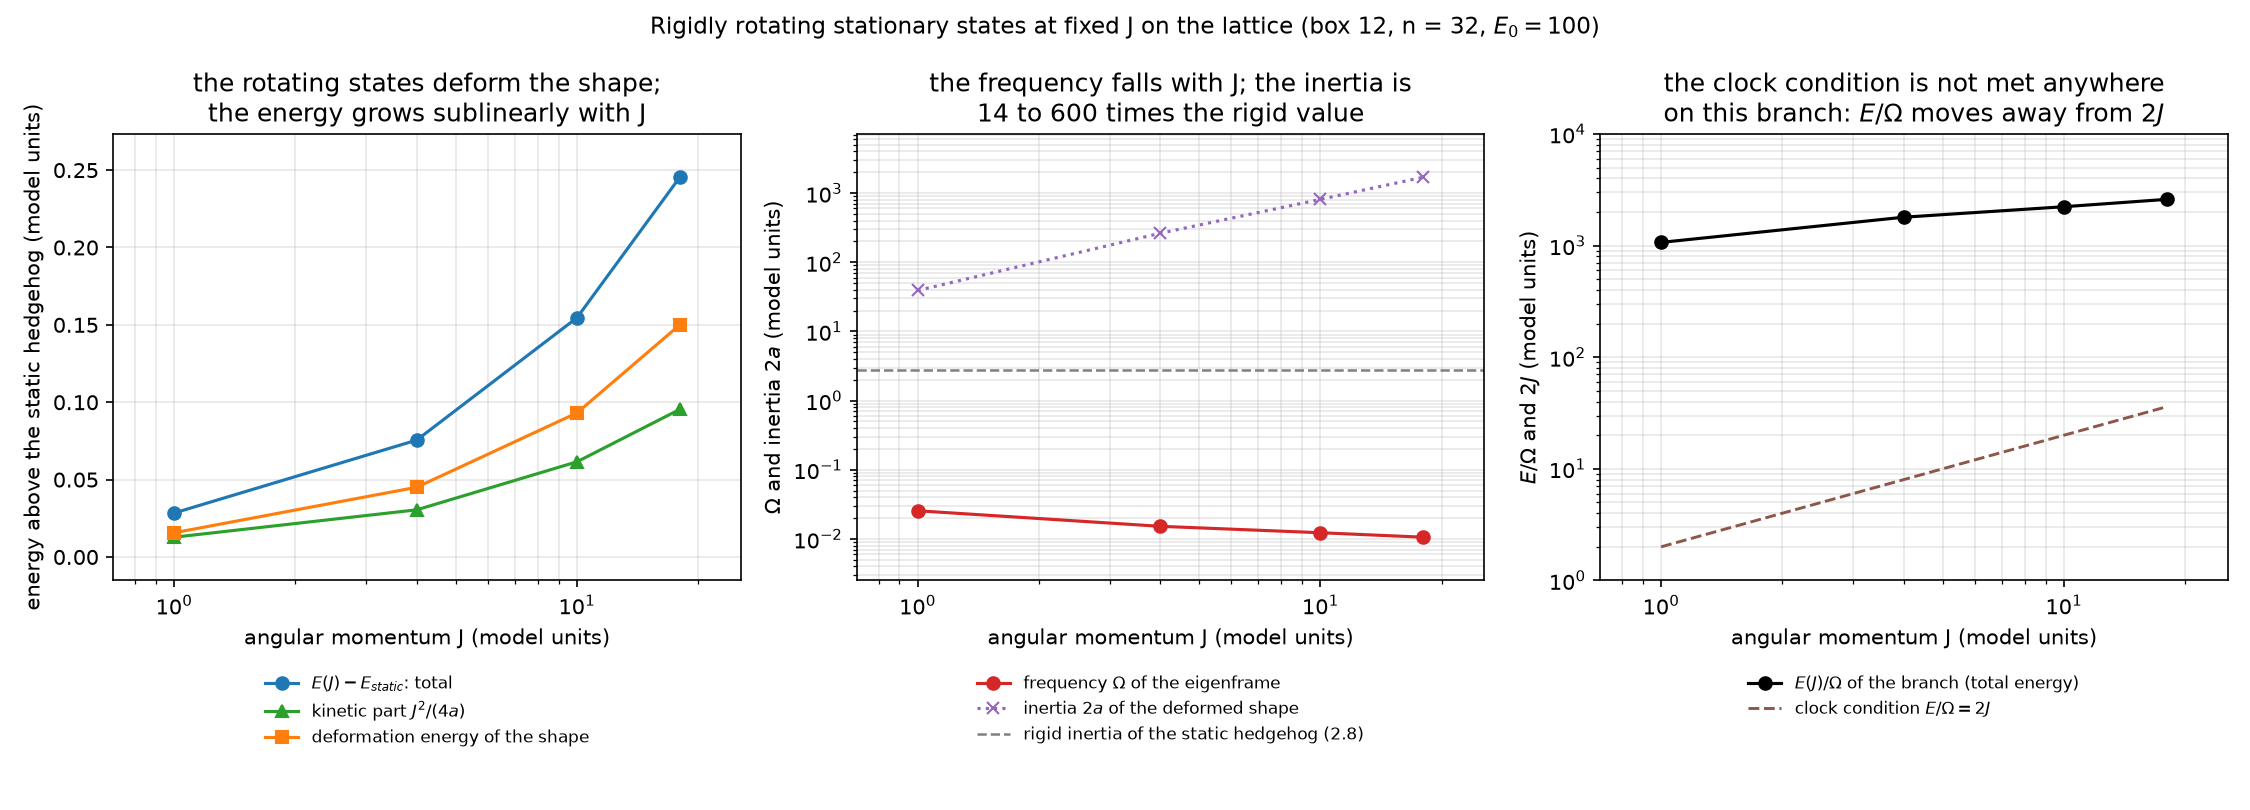
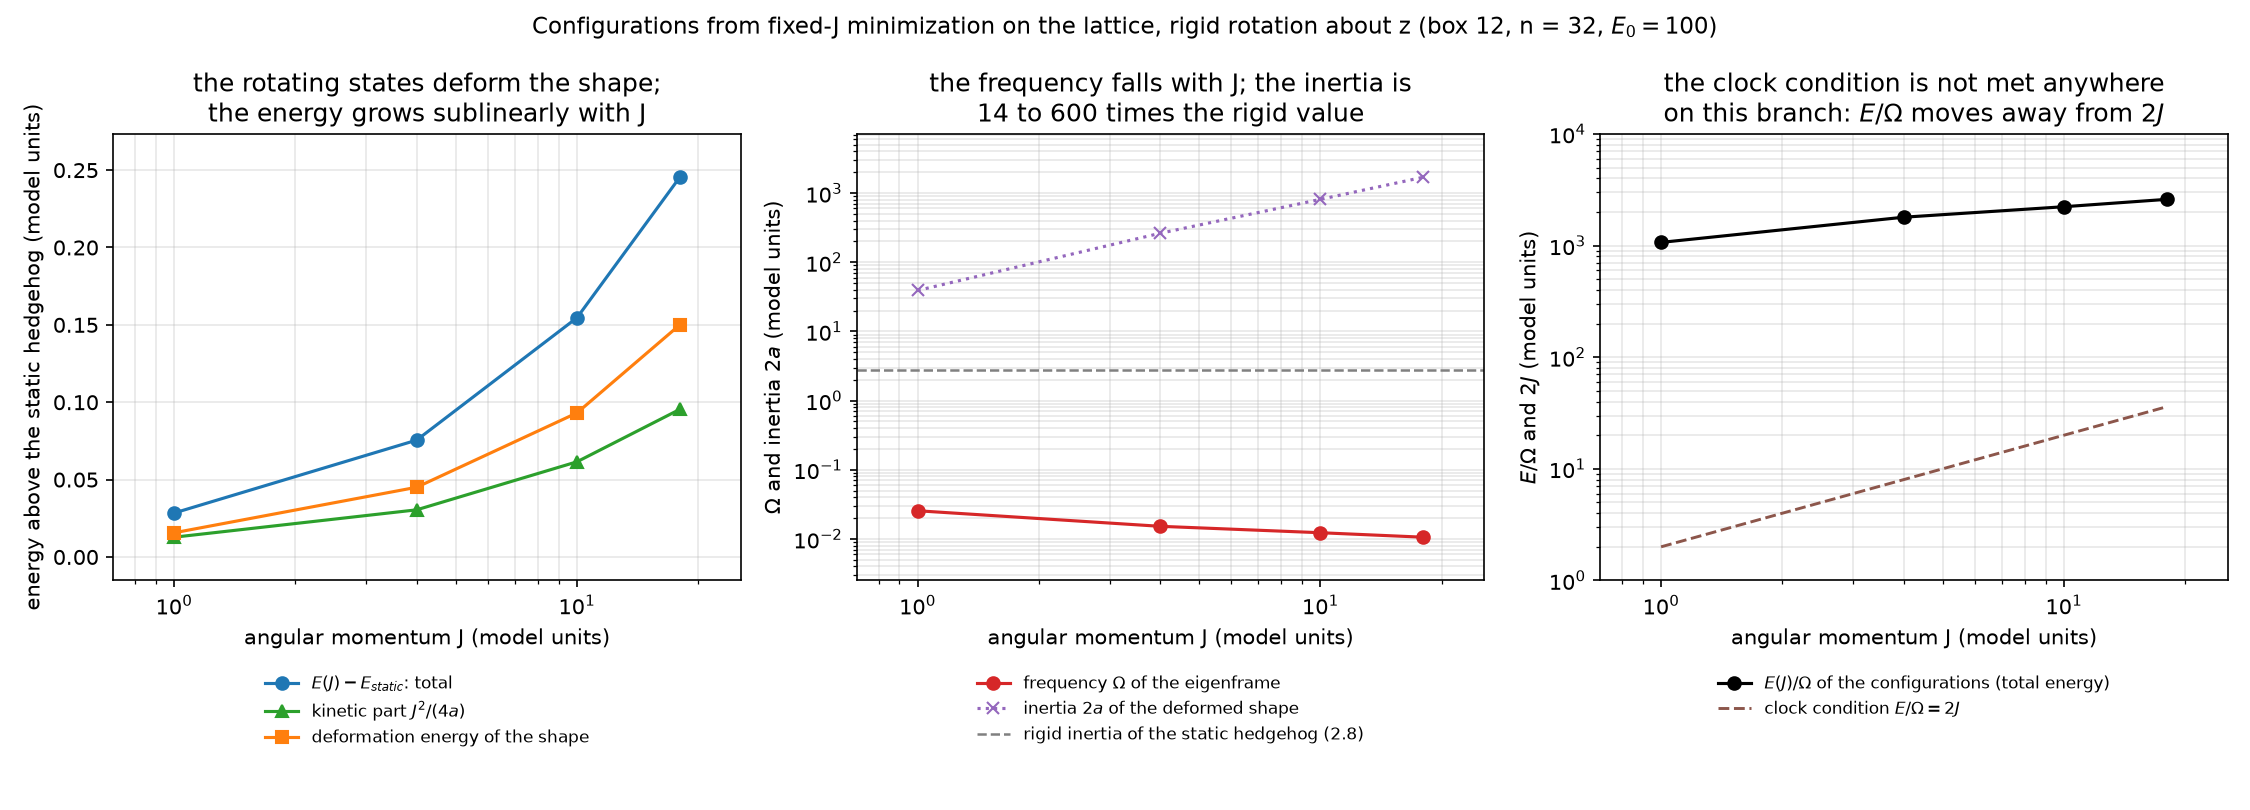
015 review round 2: consistent status of the box configurations (approximate, from fixed-J minimization), clock mismatch stated as E/(2J Omega) = 70-500, inertia agreement quoted as a fit result, crossover radius against the total excess (35-75, order of magnitude), figure labels
Claude-Session: https://claude.ai/code/session_01QP2nAtvThEMWhiKzux6iWF

Changed region(s): [[0.2489, 0.0, 0.7467, 0.0617], [0.7467, 0.8333, 0.9333, 0.8951]]

diff --git a/reports/015-halo-inertia/rotor_branch.py b/reports/015-halo-inertia/rotor_branch.py
@@ -43,13 +43,15 @@ for pt in br:
           f"inertia 2a = {2 * a:.1f} ({2 * a / (2 * a0):.0f} x rigid), E/Omega = {row['E_over_Omega']:.0f} (2J = {2 * J}), |grad| {pt['grad']:.1e}", flush=True)
 # the halo-tilt alternative in the same box: a tilt that spans the box radius R costs c_E delta^2 / R and carries the
 # inertia c_I delta^2 R (halo_check.py); at fixed J the optimal angle gives E_tilt = J sqrt(2 c_E / c_I) / R = J / R.
-# The box branch beats it unless R > J / E_kin, which is the crossover radius quoted in the report.
+# Equating it with the total excess E - E_static of the box configuration gives an order-of-magnitude crossover radius.
 import math
 Delta = base['E'][1] - base['E'][2]
 cE, cI = 32 * math.pi / 3 * Delta ** 4, 64 * math.pi / 3 * Delta ** 4
 Rbox = base['box'] / 2
 for row in rows:
     row['tilt_estimate_in_box'] = row['J'] * math.sqrt(2 * cE / cI) / Rbox
-    row['crossover_radius'] = row['J'] * math.sqrt(2 * cE / cI) / row['E_kin']
-    print(f"J = {row['J']:5.1f}: halo-tilt estimate in this box {row['tilt_estimate_in_box']:.2f} vs branch kinetic {row['E_kin']:.4f}; tilt wins beyond R = {row['crossover_radius']:.0f}")
+    row['crossover_radius'] = row['J'] * math.sqrt(2 * cE / cI) / row['E_above_static']
+    row['E_over_2JOmega'] = row['E_over_Omega'] / (2 * row['J'])
+    print(f"J = {row['J']:5.1f}: halo-tilt estimate in this box {row['tilt_estimate_in_box']:.2f} vs total excess of the configuration {row['E_above_static']:.4f}; "
+          f"order-of-magnitude crossover R = {row['crossover_radius']:.0f}; E/(2 J Omega) = {row['E_over_2JOmega']:.0f}")
 json.dump(dict(E_static=E0, rigid_inertia=2 * a0, box=base['box'], n=base['n'], rows=rows), open('results/rotor_branch.json', 'w'), indent=1)

diff --git a/reports/015-halo-inertia/make_figures.py b/reports/015-halo-inertia/make_figures.py
@@ -70,14 +70,14 @@ def fig_rotor():
     ax[1].axhline(d['rigid_inertia'], color='0.5', ls='--', lw=1.2, label=f'rigid inertia of the static hedgehog ({d["rigid_inertia"]:.1f})')
     ax[1].set(xlabel='angular momentum J (model units)', ylabel='$\\Omega$ and inertia $2a$ (model units)',
               title=f'the frequency falls with J; the inertia is\n{I2a.min() / d["rigid_inertia"]:.0f} to {round(I2a.max() / d["rigid_inertia"], -2):.0f} times the rigid value')
-    ax[2].loglog(J, EO, 'o-', color='k', label='$E(J)/\\Omega$ of the branch (total energy)')
+    ax[2].loglog(J, EO, 'o-', color='k', label='$E(J)/\\Omega$ of the configurations (total energy)')
     ax[2].loglog(J, 2 * J, '--', color='C5', lw=1.4, label='clock condition $E/\\Omega = 2J$')
     ax[2].set(xlabel='angular momentum J (model units)', ylabel='$E/\\Omega$ and $2J$ (model units)', ylim=(1, 1e4),
               title='the clock condition is not met anywhere\non this branch: $E/\\Omega$ moves away from $2J$')
     for a in ax:
         a.grid(alpha=0.3, which='both'); a.margins(x=0.12, y=0.12)
         a.legend(fontsize=8, loc='upper center', bbox_to_anchor=(0.5, -0.18), ncol=1, frameon=False)
-    fig.suptitle('Rigidly rotating stationary states at fixed J on the lattice (box 12, n = 32, $E_0 = 100$)', fontsize=11)
+    fig.suptitle('Configurations from fixed-J minimization on the lattice, rigid rotation about z (box 12, n = 32, $E_0 = 100$)', fontsize=11)
     fig.tight_layout()
     fig.savefig(os.path.join(R, 'fig_rotor.png'), dpi=150)
 

diff --git a/reports/015-halo-inertia/README.md b/reports/015-halo-inertia/README.md
@@ -33,7 +33,7 @@ is E/Ω = 2J: the diagnostic stipulated in the development
 repository's test suite (ħ := 2J, so that the electron would carry
 J = ħ/2). It is a convention, not a symmetry statement — a tilted
 configuration has no half-turn symmetry and no implied frequency 2Ω
-(review round 1) — and since the branch below misses it by three
+(review round 1) — and since the configurations below miss it by two to three
 orders of magnitude, no O(1) choice of the convention matters. The
 tilt amplitude below is called α (`delta` in the scripts); the
 parameters (g, δ) = (8, 0.3) of reports 004–013 are not used here.
@@ -65,7 +65,7 @@ parameters (g, δ) = (8, 0.3) of reports 004–013 are not used here.
    the same cost. Second route: the model's own kinetic density on the
    analytic tilted exterior, averaged over spheres by quadrature,
    matches the closed form to 10⁻¹¹ (`halo_inertia_check.py`).
-3. **The lattice agrees: inertia to 2%, cost to 10–30%.** On the
+3. **The lattice agrees: fitted inertia prefactors within 2%, cost 10–30% low.** On the
    relaxed hedgehog tilted by α s(r), s a smoothstep rising over a
    zone of thickness L = 1, 2, 3 and falling back before the boundary,
    α = 0.05–0.2, cost and inertia gain are quadratic in α (exponents
@@ -76,9 +76,9 @@ parameters (g, δ) = (8, 0.3) of reports 004–013 are not used here.
    | | box 12, n = 32 | box 18, n = 48 | exterior formula |
    |---|---|---|---|
    | cost | 22–23 | 23–29 | 32 |
-   | inertia | 65–66 | 63–67 | 64 |
+   | inertia | 64–66 | 63–67 | 64 |
 
-   (`halo_scaling.py`, figure below). The cost deficit is largest
+   (ranges over the three zone thicknesses; the fitted prefactors are 65.5 and 65.4 against 64.4; `halo_scaling.py`, figure below). The cost deficit is largest
    where the tilt zone sits in the region where e₁ is still
    recovering (box 12: e₁ = 0.92–0.98 at r = 3–6, and Δ⁴ is
    correspondingly smaller) and shrinks as the zone moves outward in
@@ -95,27 +95,31 @@ parameters (g, δ) = (8, 0.3) of reports 004–013 are not used here.
    clock condition E/Ω = 2J cannot be met by one. This is a
    variational statement about the infimum and the configurations
    tested, not a classification of stationary points: rotor branches
-   that are stationary but not minima (the finite-box branch of
-   result 5 is of that kind) are not excluded by it, and nothing
+   that are stationary but not minima are not excluded by it, and nothing
    follows about quantization or a spin quantum. The argument uses
    only the quartic gradient energy and the internal symmetry of the
    far field, so it should carry over to Faber's model of topological
    fermions, whose gradient energy is the same curvature-squared term
    (hep-th/9910221); that is not checked here.
-5. **What the lattice finds is a localized deformation.** Minimizing
-   H_J in box 12 from a symmetry-broken seed at J = 1, 4, 10, 18 gives
-   states whose energy above E_static = 27.29 is 0.03 at J = 1 and
-   0.25 at J = 18, growing sublinearly and split about 40/60 between
+5. **What fixed-J minimization in a box finds is a localized
+   deformation.** Minimizing H_J in box 12 from a symmetry-broken seed
+   at J = 1, 4, 10, 18 gives approximate configurations (residual
+   gradients 3·10⁻³–3.5·10⁻², see the limitations) whose energy above
+   E_static = 27.29 is 0.03 at J = 1 and 0.25 at J = 18, growing sublinearly and split about 40/60 between
    the kinetic part J²/(4a) and the deformation of the shape. Between
    J = 1 and 18 the frequency Ω falls from 0.026 to 0.011 and the
    inertia 2a grows from 39 to 1700, against the rigid inertia 2.8 of
-   the static lattice hedgehog (`rotor_branch.py`, figure below). At
-   J = 4 the branch gives E/Ω ≈ 1800 against 2J = 8, and the ratio
-   grows with J. The halo tilt of result 4 would cost J/R ≈ 0.2–3 in
-   this box, far above the branch, and undercuts it only for box radii
-   beyond about 80–190: the infinite-volume infimum is out of the
-   lattice's reach, and the box branch is the minimiser found from
-   this seed in this box, not a measurement of it.
+   the static lattice hedgehog (`rotor_branch.py`, figure below).
+   E/(2JΩ) lies between about 500 (J = 1) and 70 (J = 18): the clock
+   diagnostic stays two to three orders of magnitude from equality at
+   all four sampled points. The halo tilt of result 4 would cost
+   J/R ≈ 0.2–3 in this box, far above the total excess of these
+   configurations; equating J/R with that excess gives R ≈ 35–75, an
+   order-of-magnitude estimate of the box size beyond which the
+   extended tilt is the cheaper way to carry J. The infinite-volume
+   infimum is out of this lattice's reach, and the box configurations
+   are what fixed-J minimization finds from this seed in this box, not
+   a measurement of it.
 
 ![halo](results/fig_halo.png)
 
@@ -140,10 +144,13 @@ is proposed, not measured: no run at (g, δ) = (8, 0.3) is made here.
   not separated (gap deficit in the tilt zone vs discretization of
   θ′). One tilt axis and one rotation axis (perpendicular) are
   measured; angles α ≤ 0.2 and thicknesses L ≤ 3.
-- The finite-box branch is not converged along the soft box-adapted
-  translation mode (final gradient norms 3·10⁻³–3.5·10⁻²), so its
-  energies are upper bounds; it is a single box (12) and a single
-  seed. A box-18 continuation exists in the development repository
+- The finite-box configurations are not converged along the soft
+  box-adapted translation mode (final gradient norms 3·10⁻³–3.5·10⁻²),
+  so they are neither certified stationary points nor certified
+  minima and their energies are upper bounds; a single box (12) and a
+  single seed. The crossover radius of result 5 is a heuristic
+  comparison of two energy estimates, not an established crossover of
+  branches with box size. A box-18 continuation exists in the development repository
   (kinetic part 0.038 at J = 4, against 0.030 here) and is not
   regenerated by this report.
 - The clock condition E/Ω = 2J is a stipulated diagnostic; no

diff --git a/README.md b/README.md
@@ -23,7 +23,7 @@ behind every number, and a reproduction script.
 | 011 | [The equivariant hedgehog and the rotational sector](reports/011-third-class-rotor/) | The spherical-frame (axially equivariant) hedgehog relaxes stably with a constant axial line tension ≈ 8·10⁻⁴ for L ≥ 36 (observable-level plateau; the cost falls with δ and is negative at δ = 1/8); neither a spectral nor a frame-twist core deformation survives statics; prescribed-J minimization grows large inertia spontaneously from the equivariant seed but the excess is peripheral (orbital lever, centroid r ≈ 15) — no core-localized spin mode is stabilized by anything tried |
 | 012 | [Scaling toward the proposed vacuum hierarchy](reports/012-delta-g-scaling/) | Pre-registered 3×3 grid over (δ, g) toward the author's g ~ 10¹⁰, δ ~ 10⁻¹⁰: δ is a flat direction measured AT the target (10⁻¹⁰, 10⁻¹¹ match 1/8 to 0.1%); g is live and potential-variant-sensitive (drive grows in both variants, ω_pred rises in the original theory vs falls in the relative variant; absolute-potential breakdown at g = 512 documented at 13 ulp); both time-part signs stable at all points |
 | 013 | [C10's candidate wells do not certify within a 24-cycle continuation](reports/013-window-convergence/) | A budget-bounded negative on the deepest-probed corner of report 010's open question: the C10 candidate wells at couplings ×10 and ×14 do not certify under a 24-cycle observable-level continuation and the drift shows no sign of saturating (×14 inverts the bracket structure; ×10 keeps close brackets with the top rung below the minimum); the boost bracket of report 008 holds its order under the same budget; the grammar-wide existence question stays open |
-| 015 | [The halo mechanism: a purely quartic gradient energy gives the hedgehog an unbounded moment of inertia](reports/015-halo-inertia/) | Outside the core the model is the Faddeev–Skyrme quartic without a sigma term; an internal tilt θ(r) of the halo costs exactly (32π/3)Δ⁴∫θ′² and carries the inertia (64π/3)Δ⁴∫4 sin²(θ/2)(1 + r²θ′²/2) (lattice: inertia to 2%, cost to 10–30%, two boxes), so the fixed-J infimum is the static energy for every J: no fixed-J minimiser is a rotor with finite frequency and the rotor clock condition E/Ω = 2J cannot be met by one (stationary non-minimal branches and quantization not addressed); the finite-box branch is a localized deformation with E/Ω ~ 10³ against 2J = 2–36 |
+| 015 | [The halo mechanism: a purely quartic gradient energy gives the hedgehog an unbounded moment of inertia](reports/015-halo-inertia/) | Outside the core the model is the Faddeev–Skyrme quartic without a sigma term; an internal tilt θ(r) of the halo costs exactly (32π/3)Δ⁴∫θ′² and carries the inertia (64π/3)Δ⁴∫4 sin²(θ/2)(1 + r²θ′²/2) (lattice: inertia to 2%, cost to 10–30%, two boxes), so the fixed-J infimum is the static energy for every J: no fixed-J minimiser is a rotor with finite frequency and the rotor clock condition E/Ω = 2J cannot be met by one (stationary non-minimal branches and quantization not addressed); fixed-J minimization in a box gives localized deformations with E/(2JΩ) ≈ 70–500 (fitted inertia prefactors within 2% of the exterior formula) |
 
 ## How to reproduce
 
